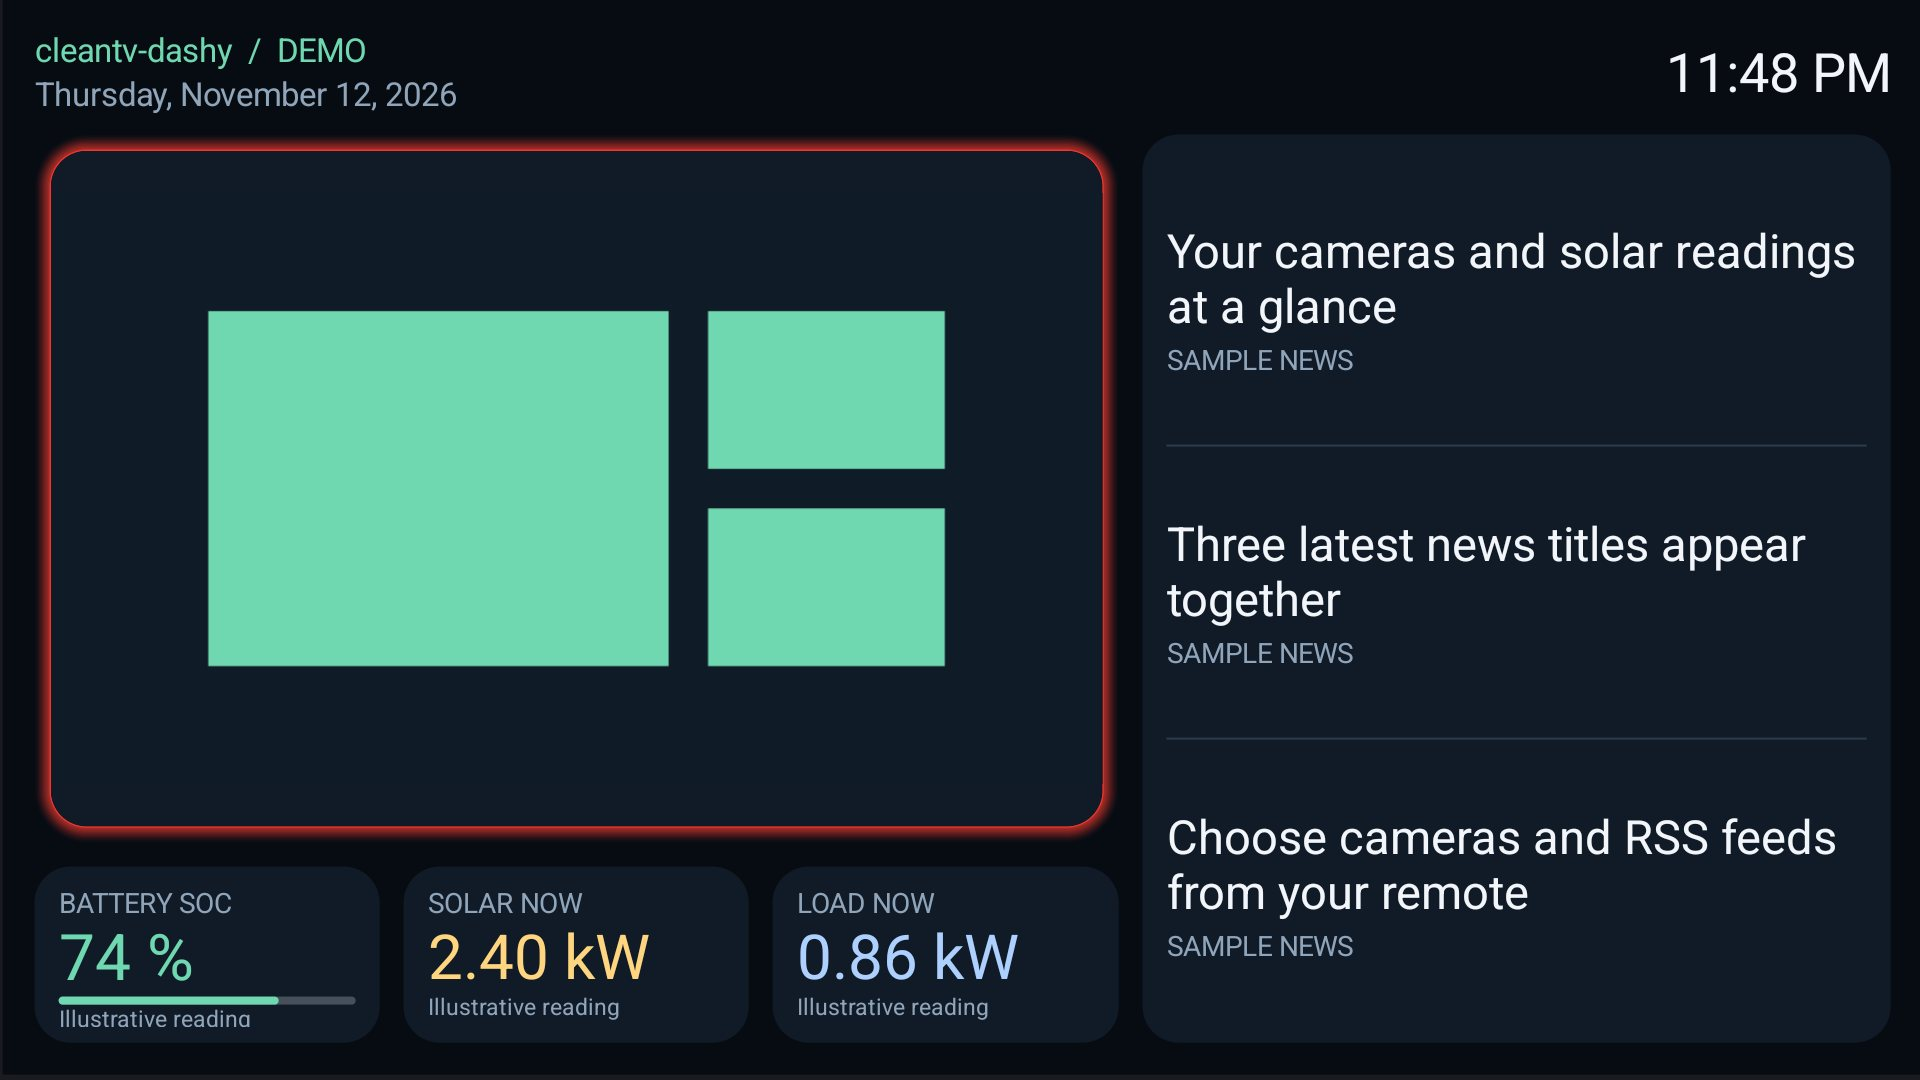
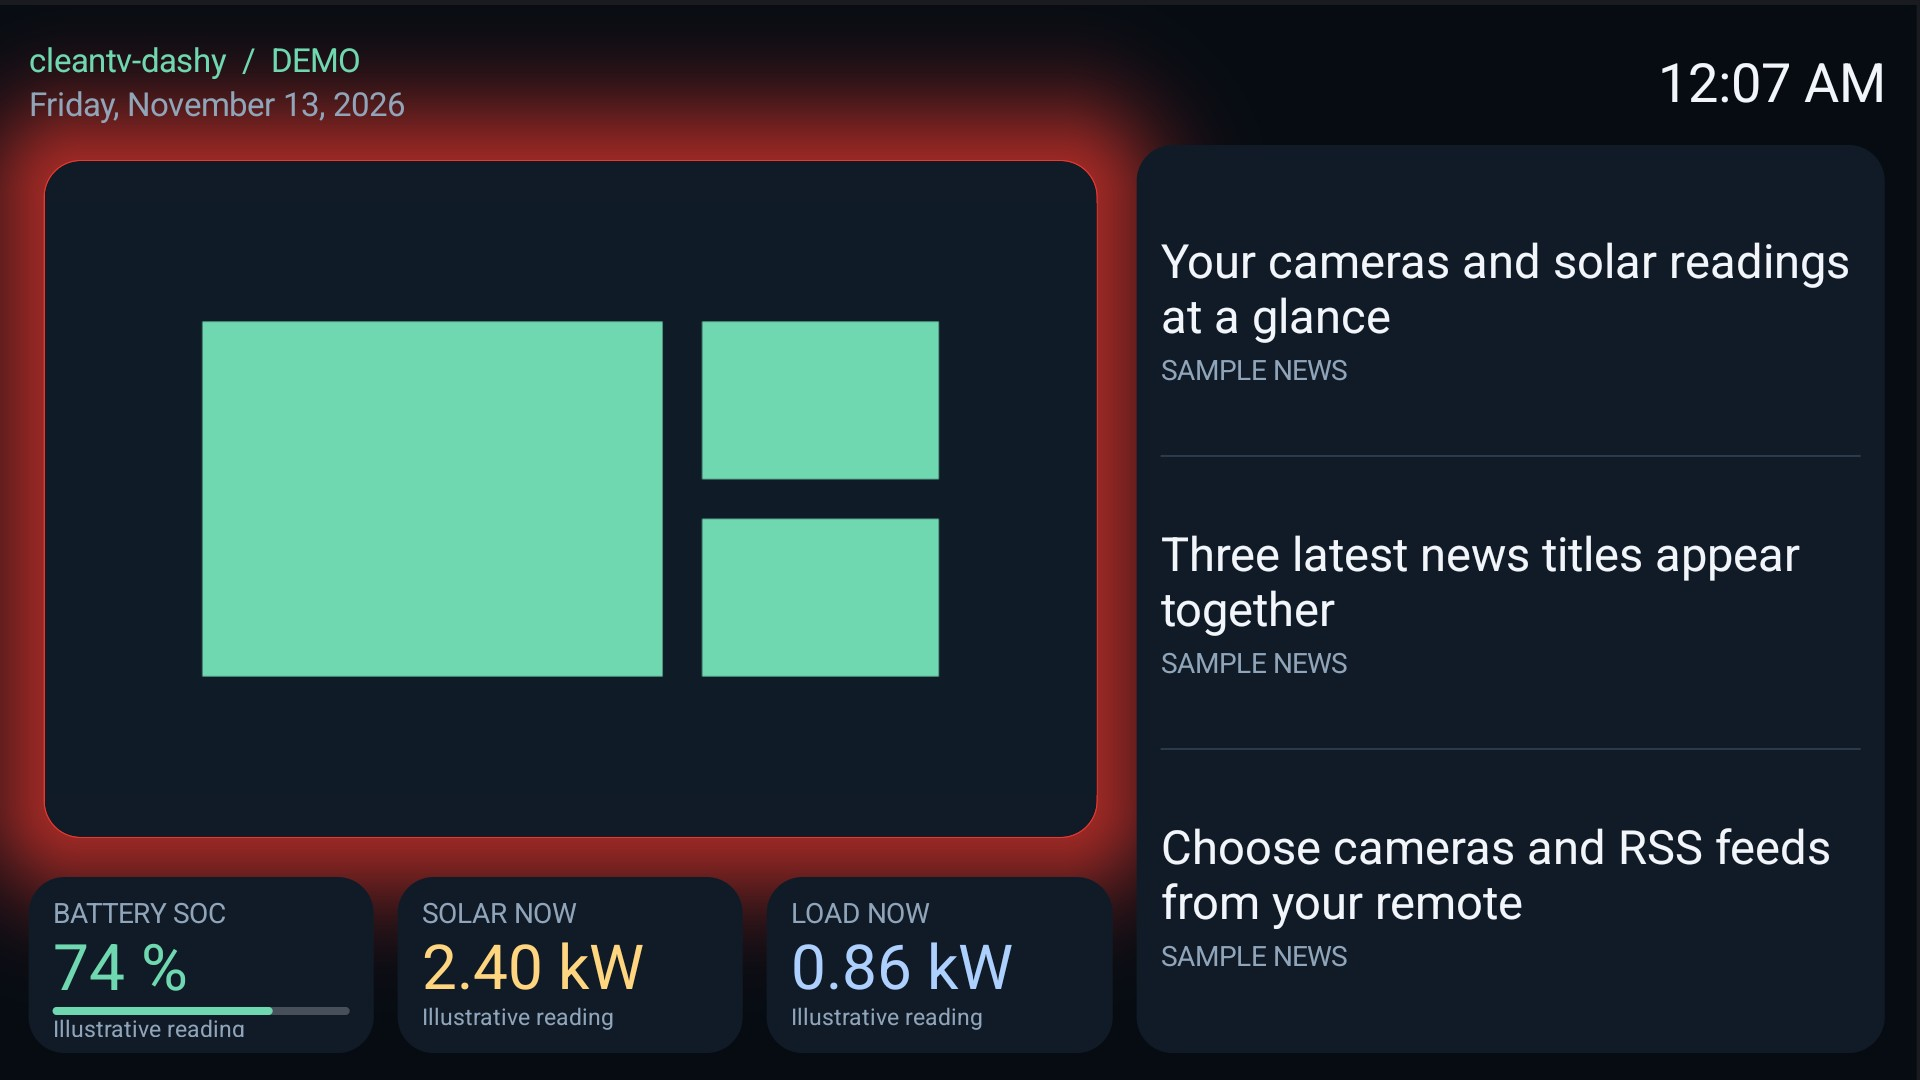
addons: spread camera activity glow into dashboard background

Changed region(s): [[0.0, 0.0306, 0.9688, 0.9778], [0.0938, 0.275, 0.5, 0.6417], [0.8438, 0.0306, 1.0, 0.0917]]

diff --git a/addons/cleantv-dashy/app/src/main/java/com/gathin/homedashboard/CameraGlow.java b/addons/cleantv-dashy/app/src/main/java/com/gathin/homedashboard/CameraGlow.java
@@ -2,29 +2,93 @@ package com.gathin.homedashboard;
 
 import android.content.Context;
 import android.graphics.Canvas;
+import android.graphics.Color;
+import android.graphics.LinearGradient;
 import android.graphics.Paint;
+import android.graphics.RadialGradient;
+import android.graphics.Rect;
 import android.graphics.RectF;
+import android.graphics.Shader;
 import android.widget.FrameLayout;
+import android.widget.LinearLayout;
 
-/** Soft activity halo drawn behind the camera; the video itself is untouched. */
+/** Activity light painted on the scene background, behind every card and the video. */
 final class CameraGlow extends FrameLayout {
-    private final Paint paint=new Paint(Paint.ANTI_ALIAS_FLAG);
-    private final RectF edge=new RectF();
     private final float density;
     private boolean highlighted;
     private int colour;
+    private Backdrop backdrop;
     CameraGlow(Context context){
         super(context);density=getResources().getDisplayMetrics().density;
-        int inset=Math.round(8*density);setPadding(inset,inset,inset,inset);setWillNotDraw(false);
+        int inset=Math.round(8*density);setPadding(inset,inset,inset,inset);
     }
     void highlight(boolean on,int colour){
-        if(highlighted==on&&this.colour==colour)return;highlighted=on;this.colour=colour;invalidate();
+        if(highlighted==on&&this.colour==colour)return;highlighted=on;this.colour=colour;
+        if(backdrop!=null)backdrop.invalidate();
     }
-    @Override protected void onDraw(Canvas canvas){
-        super.onDraw(canvas);if(!highlighted)return;
-        edge.set(getPaddingLeft(),getPaddingTop(),getWidth()-getPaddingRight(),getHeight()-getPaddingBottom());
-        paint.setStyle(Paint.Style.STROKE);paint.setColor(colour);
-        for(int i=12;i>=1;i--){paint.setAlpha(6+(12-i)*3);paint.setStrokeWidth(i*1.3f*density);canvas.drawRoundRect(edge,18*density,18*density,paint);}
-        paint.setAlpha(200);paint.setStrokeWidth(density);canvas.drawRoundRect(edge,18*density,18*density,paint);
+
+    /** Draw before all scene children so neighbouring cards mask the light naturally. */
+    static final class Backdrop extends LinearLayout {
+        private final Paint paint=new Paint(Paint.ANTI_ALIAS_FLAG);
+        private final Rect bounds=new Rect();
+        private final RectF edge=new RectF();
+        private final Rect previous=new Rect();
+        private final RectF[] areas=new RectF[8];
+        private final Shader[] gradients=new Shader[8];
+        private int previousColour;
+        private CameraGlow camera;
+
+        Backdrop(Context context){super(context);setWillNotDraw(false);}
+
+        void attach(CameraGlow camera){this.camera=camera;camera.backdrop=this;invalidate();}
+
+        @Override protected void onDraw(Canvas canvas){
+            super.onDraw(canvas);
+            if(camera==null||!camera.highlighted||camera.getWidth()==0||camera.getHeight()==0)return;
+            bounds.set(camera.getPaddingLeft(),camera.getPaddingTop(),
+                    camera.getWidth()-camera.getPaddingRight(),camera.getHeight()-camera.getPaddingBottom());
+            offsetDescendantRectToMyCoords(camera,bounds);
+            float density=camera.density;
+            if(!bounds.equals(previous)||previousColour!=camera.colour)prepareGradients();
+            // Shared rectangular edges must cover whole pixels, avoiding hairline seams.
+            paint.setAntiAlias(false);paint.setStyle(Paint.Style.FILL);paint.setAlpha(255);
+            for(int i=0;i<gradients.length;i++){paint.setShader(gradients[i]);canvas.drawRect(areas[i],paint);}
+            paint.setShader(null);paint.setAntiAlias(true);paint.setStyle(Paint.Style.STROKE);paint.setColor(camera.colour);
+            paint.setAlpha(210);paint.setStrokeWidth(density);
+            edge.set(bounds);canvas.drawRoundRect(edge,18*density,18*density,paint);
+        }
+
+        private void prepareGradients(){
+            previous.set(bounds);previousColour=camera.colour;
+            float spread=96*camera.density,radius=Math.round(18*camera.density);
+            float l=bounds.left,t=bounds.top,r=bounds.right,b=bounds.bottom;
+            int[] colours=new int[17];float[] stops=new float[17];
+            int[] cornerColours=new int[18];float[] cornerStops=new float[18];
+            for(int i=0;i<colours.length;i++){
+                float fraction=i/16f,distance=fraction*96;
+                int alpha=(int)Math.round(150*Math.exp(-distance*distance/(2*34f*34f))*(1-fraction));
+                colours[i]=Color.argb(alpha,Color.red(camera.colour),Color.green(camera.colour),Color.blue(camera.colour));
+                stops[i]=fraction;cornerColours[i+1]=colours[i];cornerStops[i+1]=(radius+fraction*spread)/(radius+spread);
+            }
+            cornerColours[0]=colours[0];
+            // Four straight gradients and four matching radial corners: no stroke bands,
+            // bitmap blur, software rendering, or extra layer around the live video.
+            areas[0]=new RectF(l+radius,t-spread,r-radius,t);
+            gradients[0]=new LinearGradient(0,t,0,t-spread,colours,stops,Shader.TileMode.CLAMP);
+            areas[1]=new RectF(l+radius,b,r-radius,b+spread);
+            gradients[1]=new LinearGradient(0,b,0,b+spread,colours,stops,Shader.TileMode.CLAMP);
+            areas[2]=new RectF(l-spread,t+radius,l,b-radius);
+            gradients[2]=new LinearGradient(l,0,l-spread,0,colours,stops,Shader.TileMode.CLAMP);
+            areas[3]=new RectF(r,t+radius,r+spread,b-radius);
+            gradients[3]=new LinearGradient(r,0,r+spread,0,colours,stops,Shader.TileMode.CLAMP);
+            areas[4]=new RectF(l-spread,t-spread,l+radius,t+radius);
+            gradients[4]=new RadialGradient(l+radius,t+radius,radius+spread,cornerColours,cornerStops,Shader.TileMode.CLAMP);
+            areas[5]=new RectF(r-radius,t-spread,r+spread,t+radius);
+            gradients[5]=new RadialGradient(r-radius,t+radius,radius+spread,cornerColours,cornerStops,Shader.TileMode.CLAMP);
+            areas[6]=new RectF(l-spread,b-radius,l+radius,b+spread);
+            gradients[6]=new RadialGradient(l+radius,b-radius,radius+spread,cornerColours,cornerStops,Shader.TileMode.CLAMP);
+            areas[7]=new RectF(r-radius,b-radius,r+spread,b+spread);
+            gradients[7]=new RadialGradient(r-radius,b-radius,radius+spread,cornerColours,cornerStops,Shader.TileMode.CLAMP);
+        }
     }
 }

diff --git a/addons/cleantv-dashy/app/src/main/java/com/gathin/homedashboard/Scene.java b/addons/cleantv-dashy/app/src/main/java/com/gathin/homedashboard/Scene.java
@@ -60,7 +60,9 @@ final class Scene {
 
     Scene(Context context, boolean demo) {
         this.context=context; this.demo=demo;
-        root = column(); root.setBackgroundColor(Color.rgb(7,12,19)); root.setPadding(dp(16),dp(16),dp(16),dp(16));
+        CameraGlow.Backdrop backdrop=new CameraGlow.Backdrop(context);
+        backdrop.setOrientation(LinearLayout.VERTICAL);root=backdrop;
+        root.setBackgroundColor(Color.rgb(7,12,19)); root.setPadding(dp(16),dp(16),dp(16),dp(16));
         LinearLayout bar = row(); bar.setGravity(Gravity.CENTER_VERTICAL);
         LinearLayout title = column();
         title.addView(text("cleantv-dashy" + (demo ? "  /  DEMO" : ""), 14, "#70D8B0"));
@@ -86,6 +88,7 @@ final class Scene {
         cam.addView(videoBox,new LinearLayout.LayoutParams(-1,0,1));cam.addView(cameraStatus);
         cameraGlow=new CameraGlow(context);cameraGlow.addView(cam,new FrameLayout.LayoutParams(-1,-1));
         left.addView(cameraGlow,new LinearLayout.LayoutParams(-1,0,1));
+        backdrop.attach(cameraGlow);
         LinearLayout energy=row();
         LinearLayout bat=panel();bat.setPadding(dp(12),dp(8),dp(12),dp(8));bat.addView(text("BATTERY SOC",12,"#90A5BA"));
         battery=text("—",32,"#70D8B0");battery.setMaxLines(1);battery.setIncludeFontPadding(false);bat.addView(battery);

diff --git a/addons/cleantv-dashy/README.md b/addons/cleantv-dashy/README.md
@@ -40,7 +40,9 @@ one slot. Rotation resumes as soon as all qualifying reviews end. This follows
 Frigate's alert lifecycle, rather than estimating physical presence from a picture.
 Cameras with no required alert zones can qualify anywhere in their view; the
 dashboard does not add zone restrictions that the Frigate server has not configured.
-While person focus is active, a soft halo surrounds the camera card. **Activity glow**
+While person focus is active, a wide halo spreads behind the camera card, fading
+gradually into the dashboard background over 96 dp. It is drawn behind the cards
+without blurring the video or changing panel sizes. **Activity glow**
 offers colour presets, a custom `#RRGGBB` colour and Off. It defaults to red and clears
 when normal rotation resumes. The demo illustrates the chosen glow with sample data.
 
